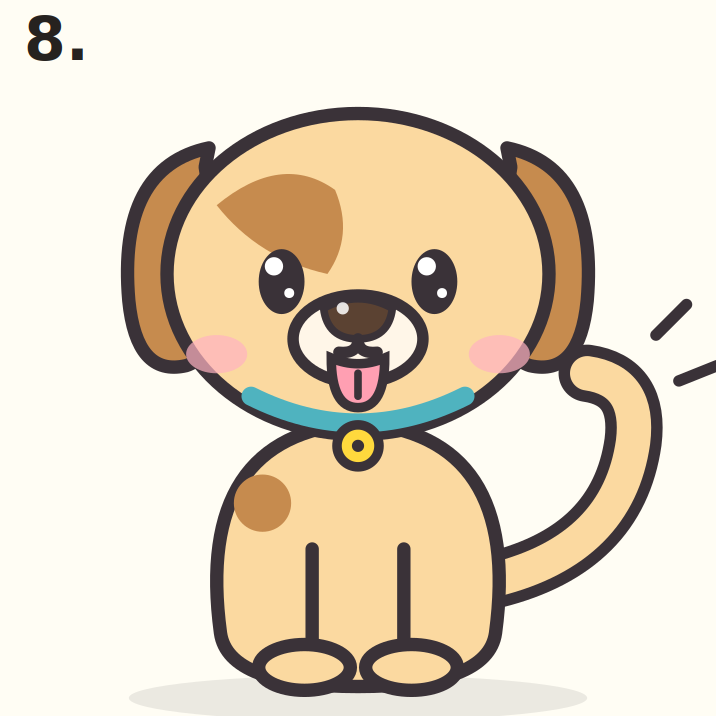
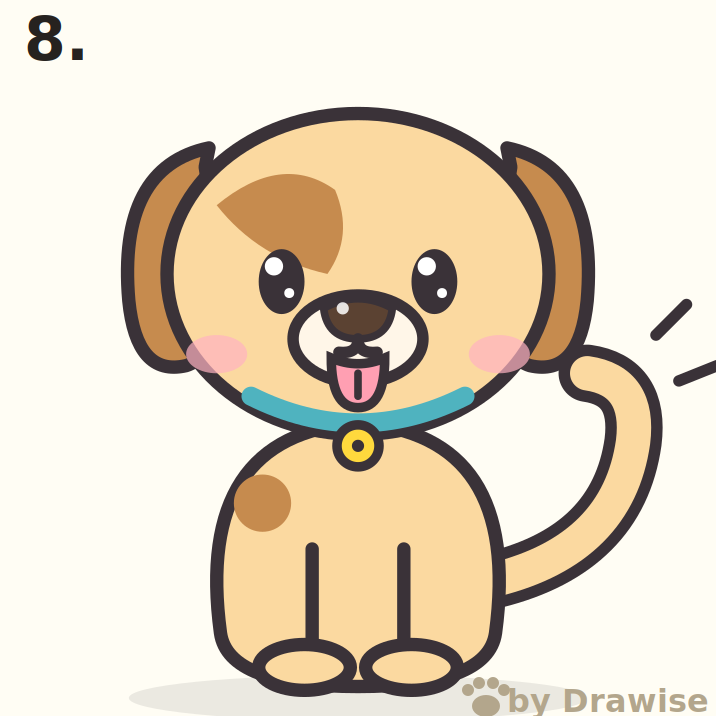
Wordmark on every image: paw + 'by Drawise' in the final panel
AGENTS.md now requires the wordmark (bottom-right of the final panel,
soft taupe) on every published image. Sheet generators draw it into the
last panel; cat and dog sheets re-rendered and thumbnails re-cropped so
final.png carries it too.

Changed region(s): [[0.6453, 0.9218, 1.0, 1.0]]

diff --git a/AGENTS.md b/AGENTS.md
@@ -90,6 +90,22 @@ will be overwritten by the next build.
     shared folders.
 - `docs/robots.txt`, `docs/sitemap.xml` — add every new page to the sitemap.
 
+## REQUIRED on every image: the wordmark
+
+Every published image (`sheet.png` and `final.png` for every tutorial)
+MUST carry the wordmark in the **bottom-right corner of the final panel**:
+the paw logo mark followed by the text **"by Drawise"**, in a soft taupe
+(`#b3a68c`), small and unobtrusive but legible. Images get shared and
+re-pinned out of context — the wordmark is how they stay ours.
+
+- Sheets get the wordmark from the sheet generator (a wordmark group drawn
+  into the last panel before rendering) — never stamp it on afterwards as
+  an afterthought, and never publish an unmarked image.
+- `final.png` is cropped from the sheet's final panel, so it inherits the
+  wordmark from the same corner. Check the crop still shows it.
+- If you ever produce any other image for the site (social cards, banners),
+  it carries the same wordmark in its bottom-right corner.
+
 ## Content rules
 
 - Tutorials are produced as cumulative **vector** step data (SVG): each panel
